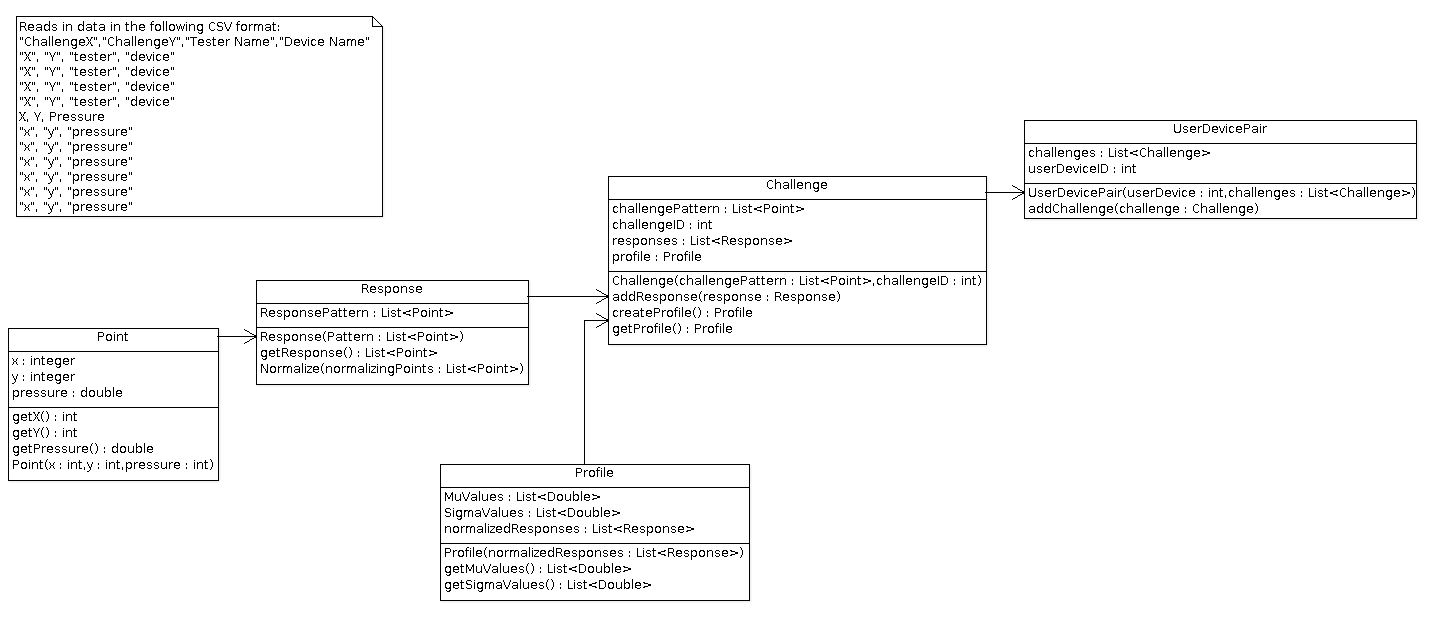
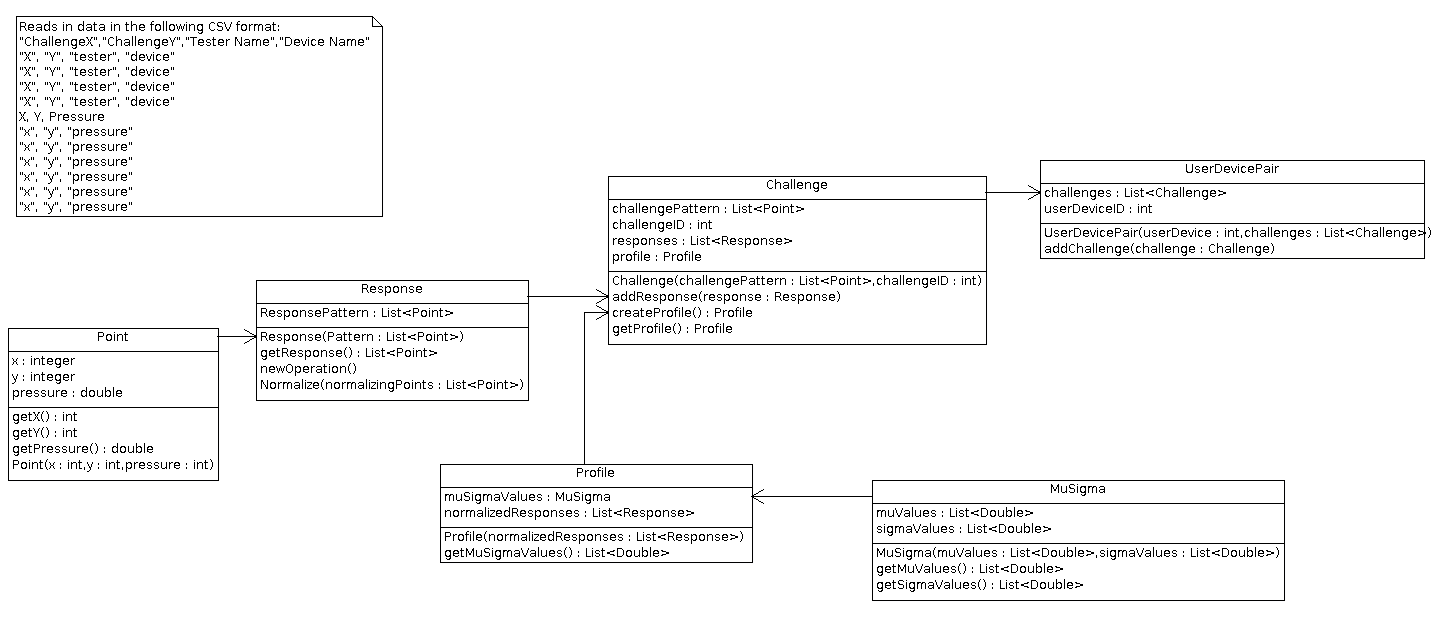
created muSigma object class and modified profile respectively

diff --git a/Gestures/java_scripts/UD-PUF/src/dataTypes/Profile.java b/Gestures/java_scripts/UD-PUF/src/dataTypes/Profile.java
@@ -10,14 +10,12 @@ import java.util.List;
  */
 public class Profile {
 
-    // List of mu values, which for our uses are average pressures
-    private List<Double> muValues;
-
-    // List of sigma values, the standard deviation for each mu value
-    private List<Double> sigmaValues;
 
     // List of normalized Responses
     private List<Response> normalizedResponses;
+
+    // Mu Sigma values that define the profile
+    private List<MuSigma> muSigmaValues;
 
     public Profile(List<Response> normalizedResponses) {
 	this.normalizedResponses = normalizedResponses;
@@ -26,28 +24,23 @@ public class Profile {
 	// Calculate mu and sigma values for this profile
 	// and assign them to muValues and sigmaValues
 	// For now, just create blank ones
-	muValues = new ArrayList<Double>();
-	sigmaValues = new ArrayList<Double>();
+    muSigmaValues = new ArrayList<MuSigma>();
+
     }
 
     // Constructor without normalized responses, for initially constructing a
     // challenge
     public Profile() {
-	normalizedResponses = new ArrayList<Response>();
-	muValues = new ArrayList<Double>();
-	sigmaValues = new ArrayList<Double>();
+    normalizedResponses = new ArrayList<Response>();
+    muSigmaValues = new ArrayList<MuSigma>();
     }
 
     public void addNormalizedResponses(List<Response> normalizedResponses) {
 	this.normalizedResponses = normalizedResponses;
     }
 
-    public List<Double> getmuValues() {
-	return muValues;
-    }
-
-    public List<Double> getsigmaValues() {
-	return sigmaValues;
+    public List<MuSigma> getMuSigmaValues() {
+	return muSigmaValues;
     }
 
     public List<Response> getNormalizedResponses() {

diff --git a/Gestures/java_scripts/UD-PUF/src/dataTypes/MuSigma.java b/Gestures/java_scripts/UD-PUF/src/dataTypes/MuSigma.java
@@ -1,0 +1,37 @@
+package dataTypes;
+
+import java.util.ArrayList;
+import java.util.List;
+
+/**
+ * Representation of a MuSigma pair
+ */
+public class MuSigma {
+
+    // List of mu values, which for our uses are average pressures
+    private List<Double> muValues;
+
+    // List of sigma values, the standard deviation for each mu value
+    private List<Double> sigmaValues;
+
+    // Empty constructor
+    public MuSigma() {
+        this.muValues = new ArrayList<Double>();
+        this.sigmaValues = new ArrayList<Double>();
+    }
+
+    // Constructor for including lists of values
+    public MuSigma(List<Double> muValues, List<Double> sigmaValues) {
+        this.muValues = muValues;
+        this.sigmaValues = sigmaValues;
+    }
+
+    private List<Double> getMuValues() {
+        return muValues;
+    }
+
+    private List<Double> getSigmaValues() {
+        return sigmaValues;
+    }
+
+}

diff --git a/Gestures/java_scripts/UD-PUF/src/dataTypes/Response.java b/Gestures/java_scripts/UD-PUF/src/dataTypes/Response.java
@@ -23,7 +23,7 @@ public class Response {
      * Normalizes points in response. The normalizingPoints are a list of points
      * to normalize the response to. In other words the response will then
      * contain exactly these point having some pressure determined by the
-     * origional response.
+     * original response.
      */
     public void normalize(List<Point> normalizingPoints, boolean isChallengeHorizontal) {
 	// Implement method of normalizing ResponsePattern to points
